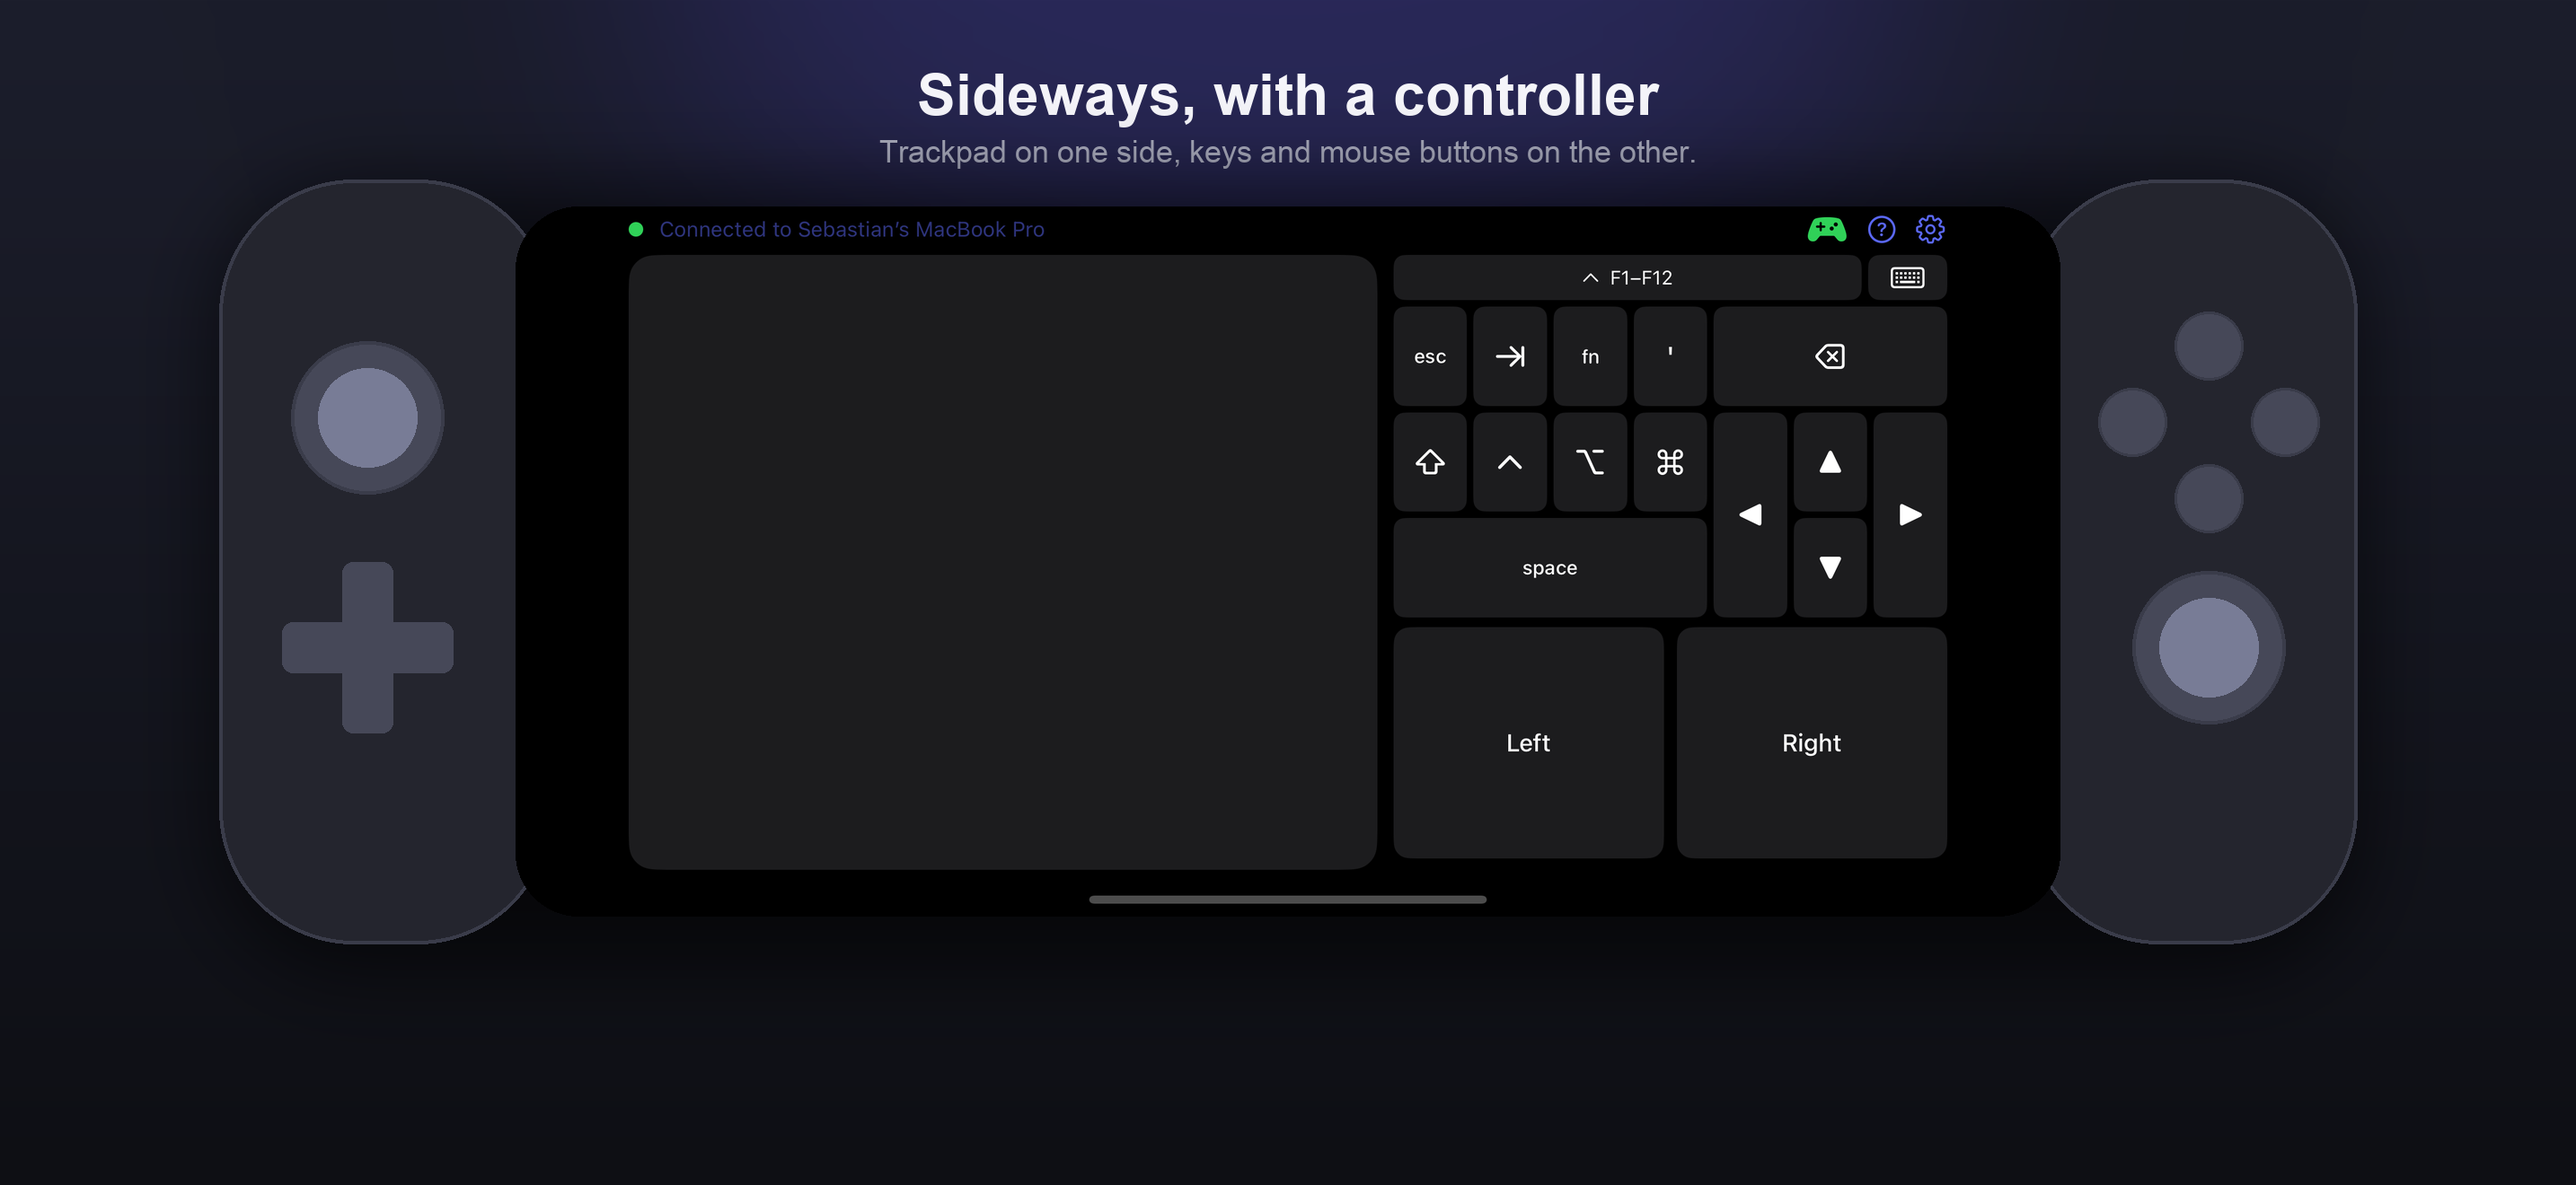
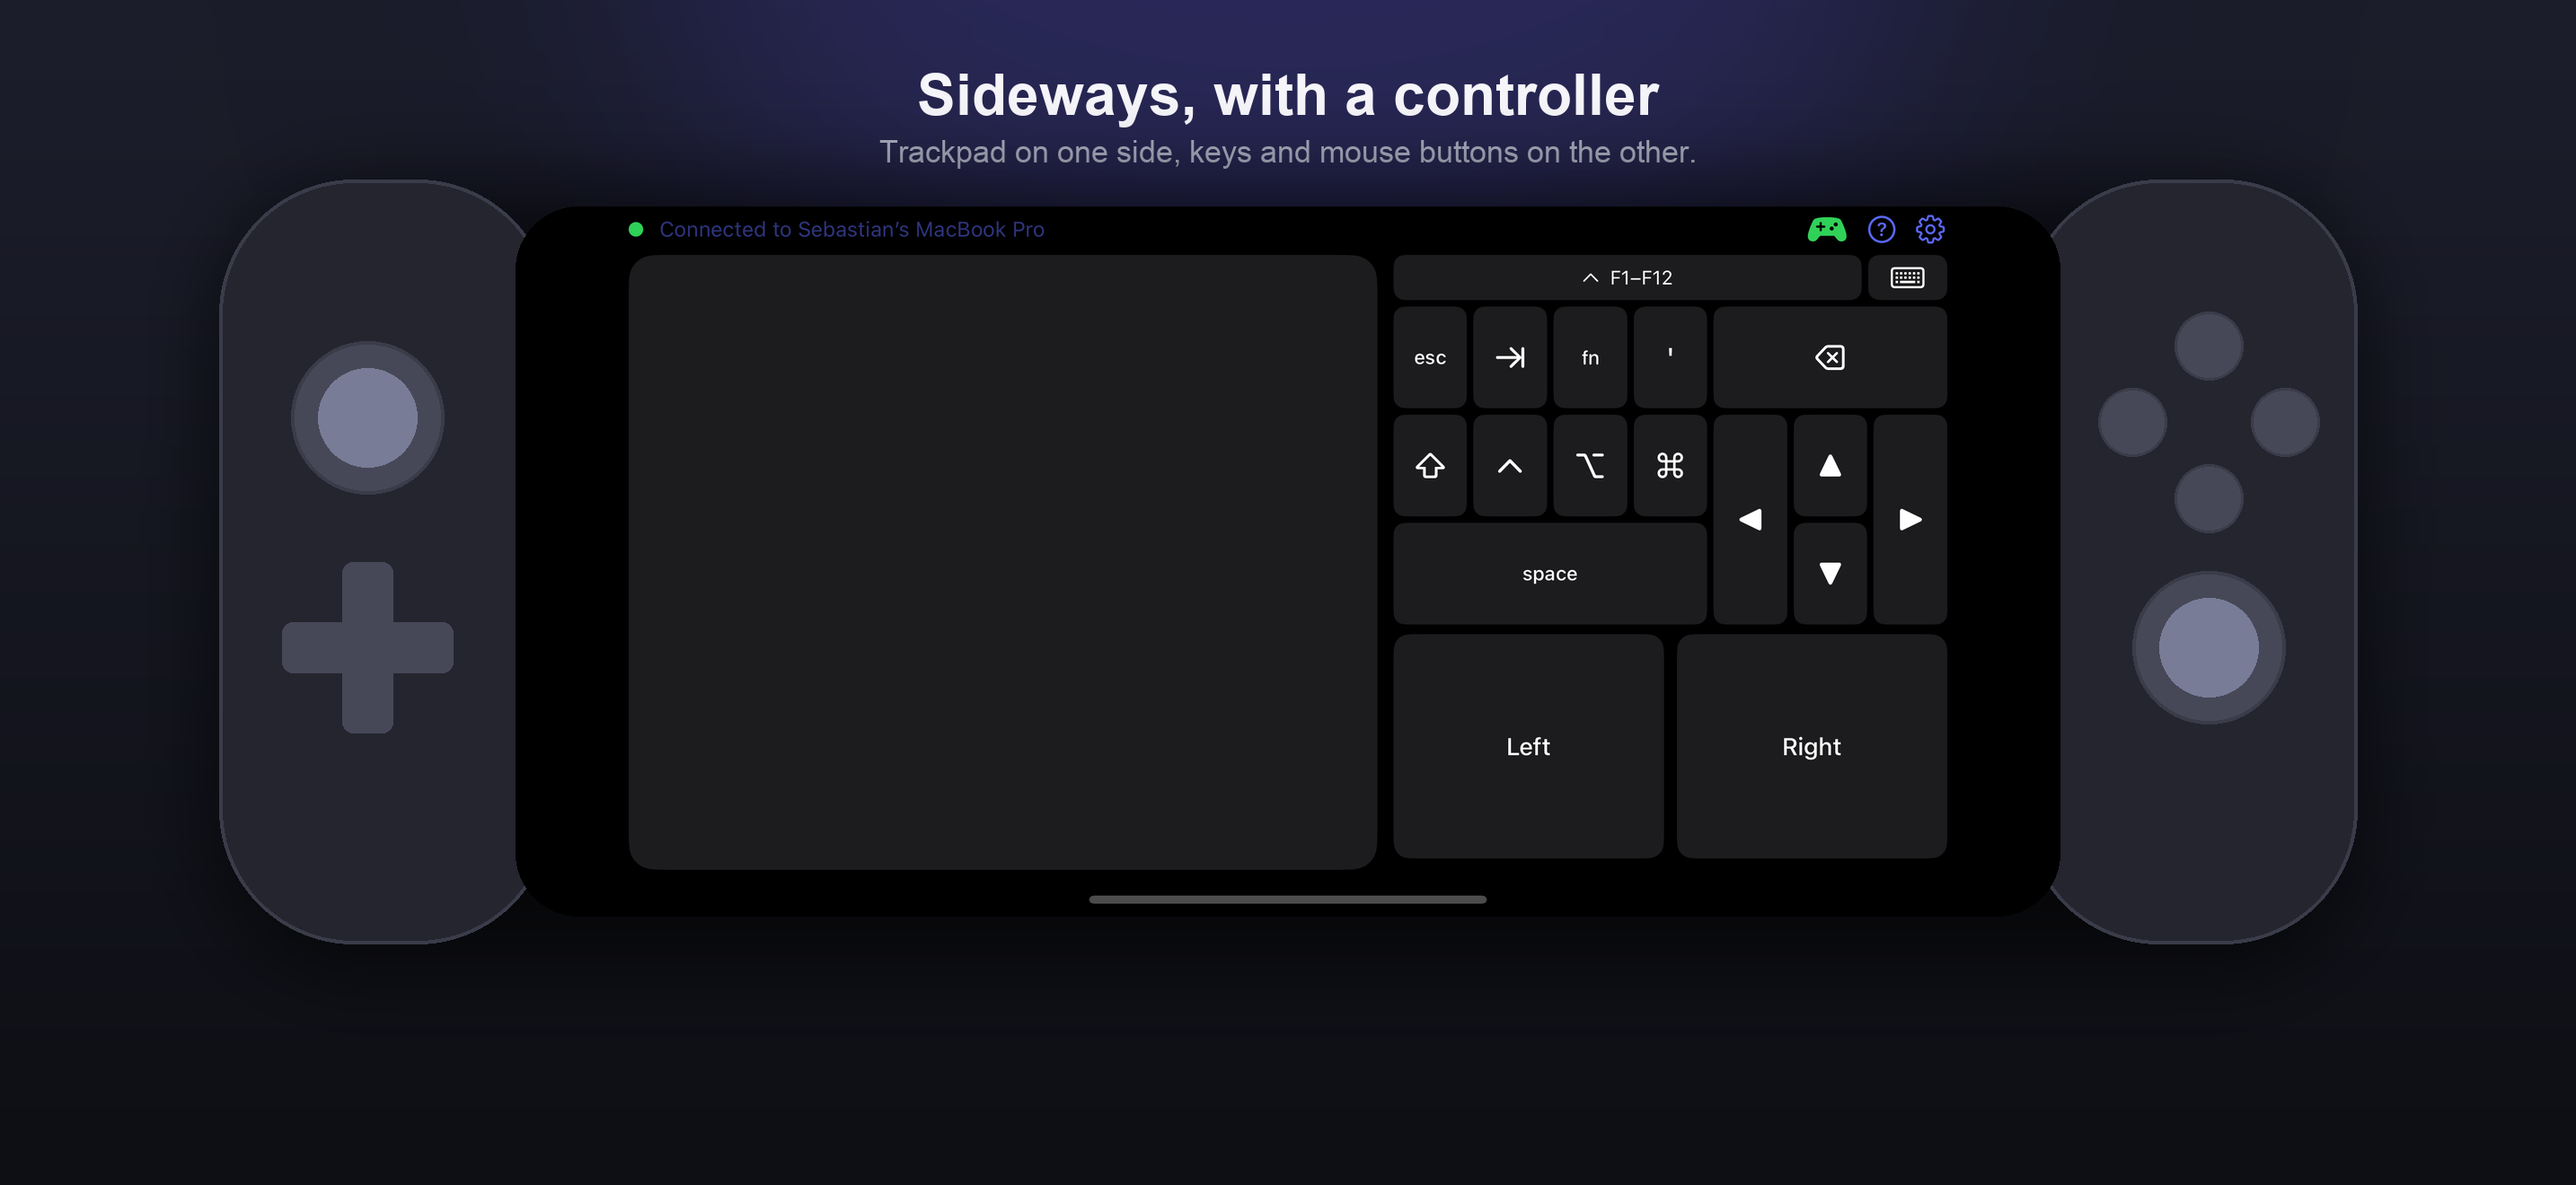
Landscape: block and trackpad end on the same line; F-bar swaps rows when the keyboard is up
The row math left the key block 4pt short of the trackpad's bottom
edge. With the iOS keyboard out there is no room to grow, so the F-bar
now replaces the three main rows with the two F-key rows in the same
space instead of adding rows above.

diff --git a/iOS/Couchpad/KeyboardView.swift b/iOS/Couchpad/KeyboardView.swift
@@ -25,6 +25,9 @@ struct KeyStripView: View {
     @ObservedObject var client: Client
     @ObservedObject var state: InputState
     var rowHeight: CGFloat = 42
+    /// When the iOS keyboard is out there is no room to grow: the F-bar then swaps the
+    /// three main rows for the two F-key rows in the same space instead of adding rows.
+    var replacesRowsWhenExpanded = false
     @State private var showF = false
 
     private let gap: CGFloat = 4
@@ -56,15 +59,21 @@ struct KeyStripView: View {
 
     /// Fixed total height, so the parent can lay out around a block that never changes.
     var height: CGFloat {
-        let rows: CGFloat = showF ? 5 : 3
+        let rows: CGFloat = (showF && !replacesRowsWhenExpanded) ? 5 : 3
         return barHeight + gap + rows * rowHeight + (rows - 1) * gap
     }
+
+    /// Two F rows standing in for three main rows share their exact height.
+    private var swappedRowHeight: CGFloat { (3 * rowHeight + 2 * gap - gap) / 2 }
 
     var body: some View {
         GeometryReader { geo in
             let unit = (geo.size.width - gap * (columns - 1)) / columns
             VStack(spacing: gap) {
                 fBar
+                if showF && replacesRowsWhenExpanded {
+                    ForEach(fRows.indices, id: \.self) { row(fRows[$0], unit: unit, height: swappedRowHeight) }
+                } else {
                 if showF {
                     ForEach(fRows.indices, id: \.self) { row(fRows[$0], unit: unit) }
                 }
@@ -83,6 +92,7 @@ struct KeyStripView: View {
                         }
                         keyView(right).frame(width: unit, height: rowHeight * 2 + gap)
                     }
+                }
                 }
             }
         }
@@ -132,10 +142,10 @@ struct KeyStripView: View {
         }
     }
 
-    private func row(_ keys: [Key], unit: CGFloat) -> some View {
+    private func row(_ keys: [Key], unit: CGFloat, height: CGFloat? = nil) -> some View {
         HStack(spacing: gap) {
             ForEach(keys) { key in
-                keyView(key).frame(width: unit * key.width + gap * (key.width - 1), height: rowHeight)
+                keyView(key).frame(width: unit * key.width + gap * (key.width - 1), height: height ?? rowHeight)
             }
         }
     }

diff --git a/iOS/Couchpad/ContentView.swift b/iOS/Couchpad/ContentView.swift
@@ -117,10 +117,11 @@ struct ContentView: View {
     /// keyboard, so the keys never move: the iOS keyboard simply covers the space below them.
     /// That space holds the mouse buttons while the keyboard is hidden.
     private func landscapeControls(width: CGFloat, above: CGFloat) -> some View {
-        // Rows fill the space above the keyboard line exactly: bar + 3 rows + gaps = `above`.
-        let rowHeight = min(80, max(36, (above - 28 - 4 * 4) / 3))
+        // Rows fill the space above the keyboard line exactly: bar + gap + 3 rows + 2 gaps = `above`.
+        let rowHeight = min(80, max(36, (above - 28 - 3 * 4) / 3))
         return VStack(spacing: 6) {
-            KeyStripView(client: client, state: inputState, rowHeight: rowHeight)
+            KeyStripView(client: client, state: inputState, rowHeight: rowHeight,
+                         replacesRowsWhenExpanded: inputState.keyboardShown)
             if !inputState.keyboardShown {
                 mouseButtons.frame(maxHeight: .infinity)
             } else {
